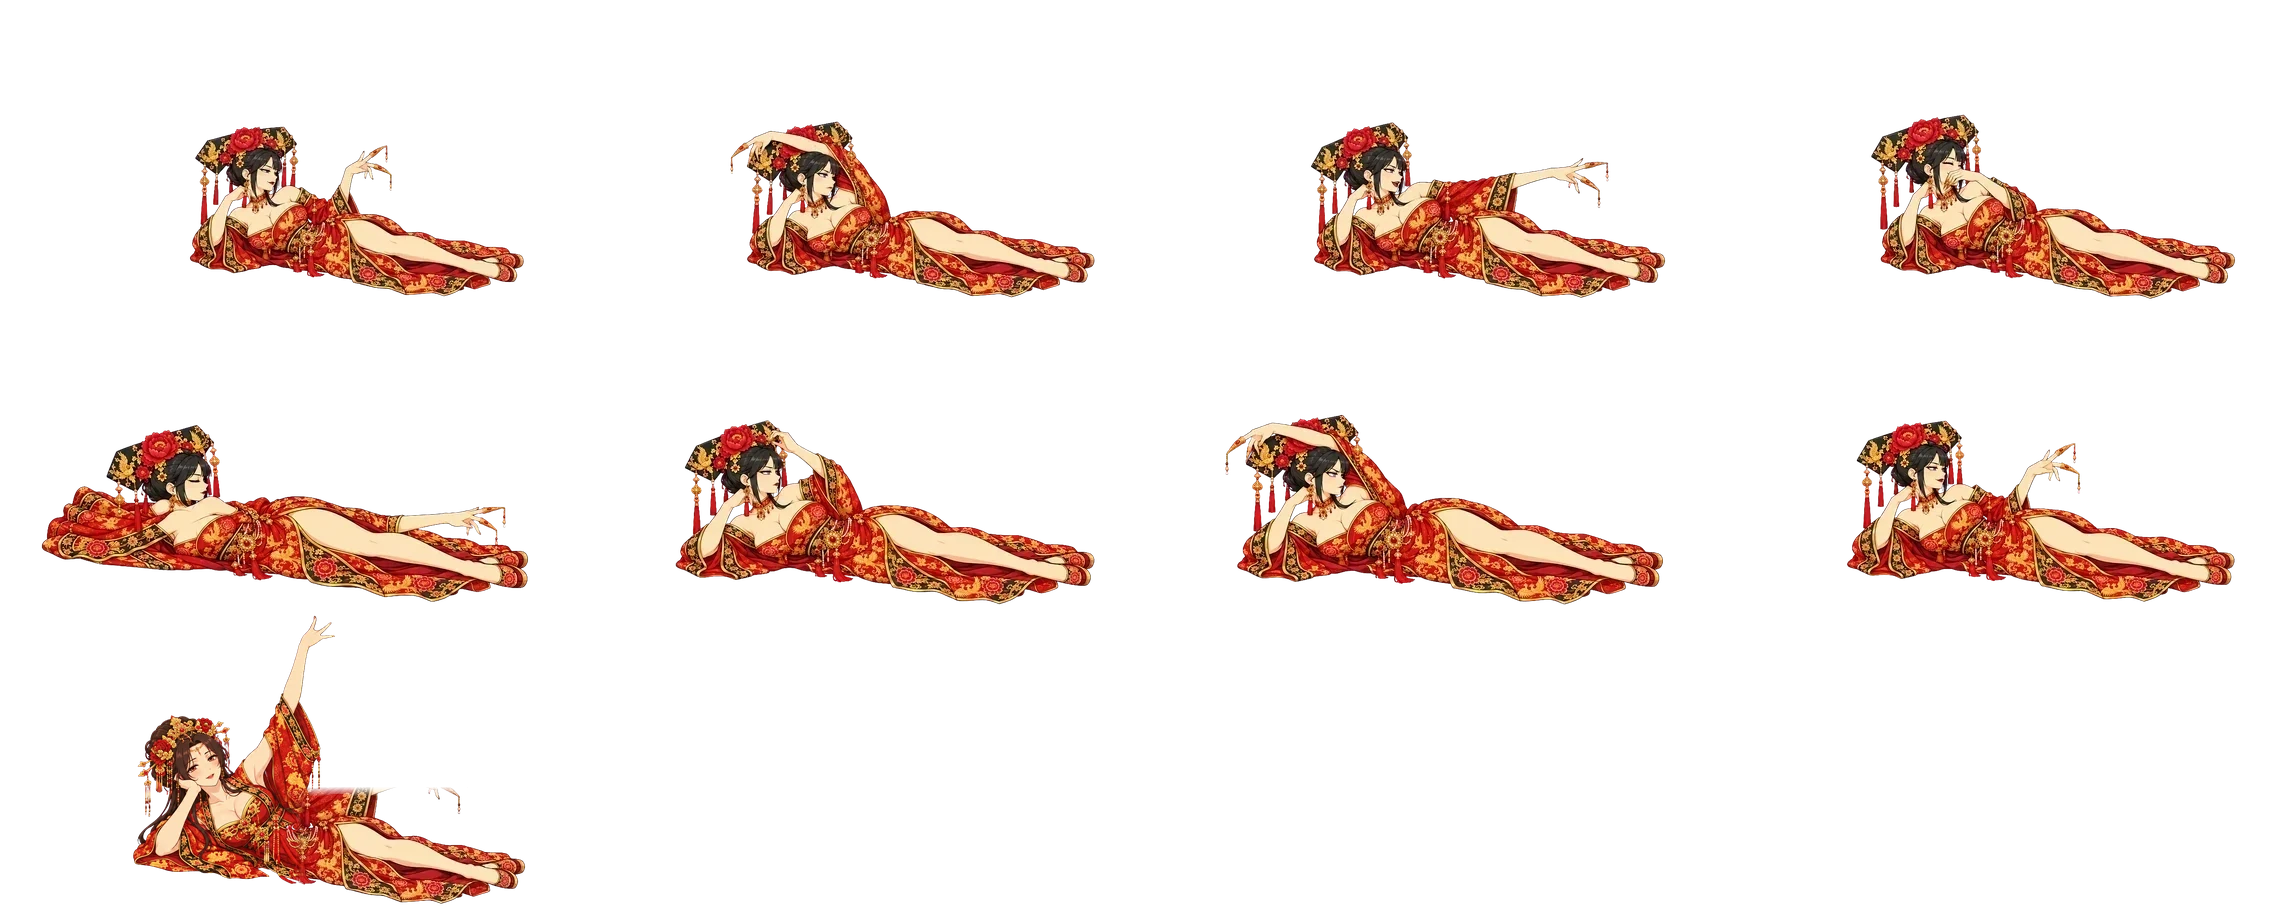
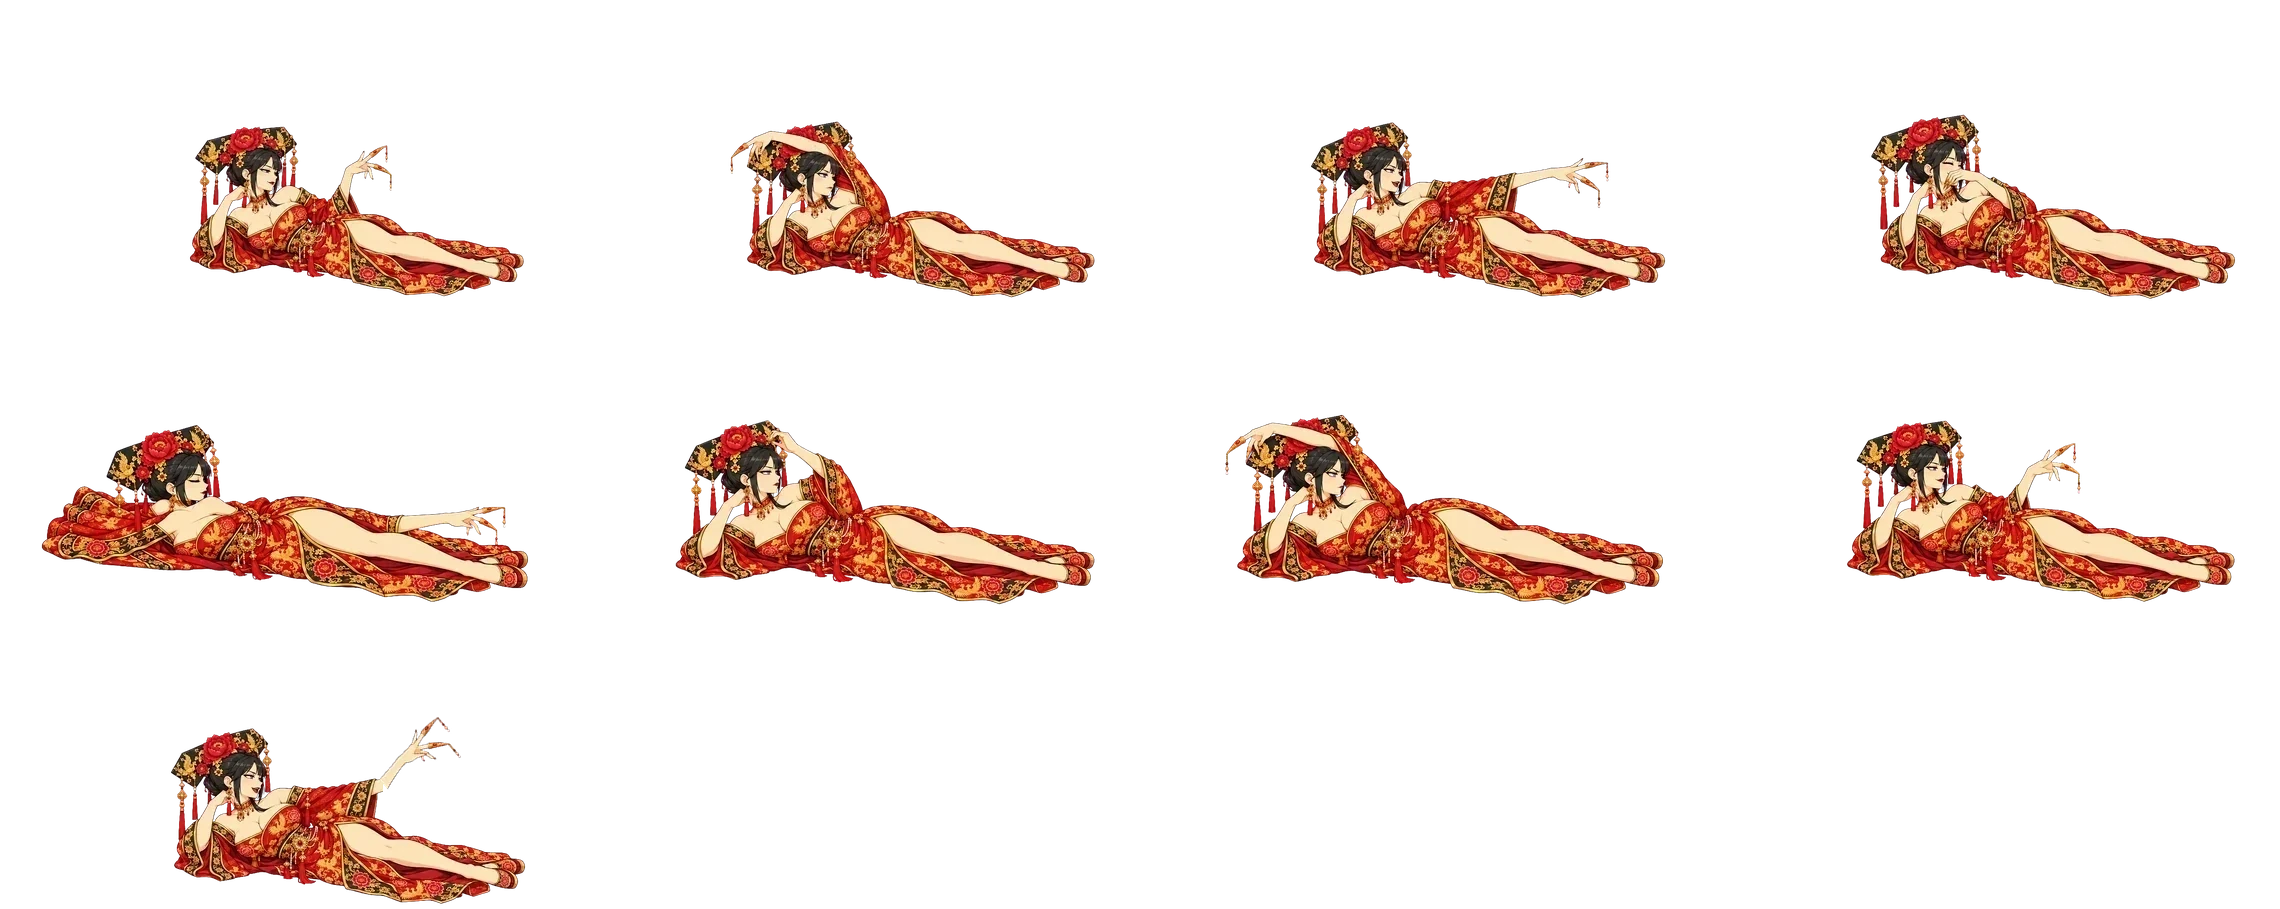
fix: G24 出手帧 release 切件重做（throw 袖口外小臂连手上扬 40°；原局部重绘帧换了个人、袖子被框边切断、旧手飘在框外）；G5 release 贴回框左扩到格边（袖子被框边切掉发虚），addframes 删掉已被 headidle2 取代的 idle2 条目、帧序跟着重排

Changed region(s): [[0.0623, 0.6777, 0.218, 0.9857]]

diff --git a/chashouji/web/trio_bestie.js b/chashouji/web/trio_bestie.js
@@ -154,8 +154,8 @@ const TRIO_BESTIE = {
       flex: { idle: [[488, 235, 529, 302, 'l', 7, 0.8]] },
       /* 金护甲：bestie/tools/prop_nailguard.py 程序画的（她手指上的护甲跟手指叠着，抠不出来） */
       atk: { kind: 'throw', item: 'nailguard', prop: 'assets/world/trio_g24_nailguard.webp', scale: 0.45,
-             seq: [['wind', 0.26], ['release', 0.06, 'fire'], ['throw', 0.12], ['follow', 0.26]], dir: { release: 60 },   // 精闺1：release 出手瞬间（手臂甩到最前上方、手在最远点，自检 4.4 所需角度）→ 原 throw 帧接着当跟随；dir = 肩 → 手（图集上量）
-             hold: { wind: [167, 144], throw: [461, 169], release: [428, 20] },
+             seq: [['wind', 0.26], ['release', 0.06, 'fire'], ['throw', 0.12], ['follow', 0.26]], dir: { release: 47 },   // release = throw 袖口以外小臂连手往上扬 40°（切件，bestie/G24_huafei/armrelease.py；原局部重绘帧头画小、袖子被框边切断、旧手飘在框外）→ 原 throw 帧接着当跟随；dir = 袖口 → 手
+             hold: { wind: [167, 144], throw: [461, 169], release: [436.7, 120.3] },
              T: 0.5, arc: 0.2, spin: 12, stretch: 0, gap: [1.0, 1.4], onHit: 'bounce' },
     },
     G25: {      // 大针筒护士：踩着输液架轮座从左下角滑进来、跳下来半跪扶着输液架，甩一支巨型针筒飞镖，扎在他头上
@@ -303,7 +303,7 @@ const TRIO_BESTIE = {
 
     G5: {       // 客栈老板娘（佟湘玉式）：腰侧挂着大算盘、叉着腰扭着走进来，惊呼"额滴神"；摘下算盘举过头顶，一把 3D 算盘甩出去砸他
       face: +1,
-      sheet: { src: 'assets/trio/G5_tong.webp', cell: [399, 464], cols: 4, names: ['idle', 'wind', 'throw', 'follow', 'walk1', 'walk2', 'walk3', 'walk4', 'release', 'through', 'idle2'] },
+      sheet: { src: 'assets/trio/G5_tong.webp', cell: [399, 464], cols: 4, names: ['idle', 'wind', 'throw', 'follow', 'walk1', 'walk2', 'walk3', 'walk4', 'idle2', 'release', 'through'] },
       /* 锚点 = 前脚（右脚）鞋底：出手四帧按这只鞋配准（残差 0.23 px）。站姿高约 350 px；站位按 shots/trio_std/建议站位_最终.md */
       anchor: [230.4, 458.3], at: [150, 980, 0.84], pivot: [230, 458], leanK: 0,
       depth: 0.8, recipe: 'debris',

diff --git a/chashouji/v14/trio/bestie/G24_huafei/armrelease.py b/chashouji/v14/trio/bestie/G24_huafei/armrelease.py
@@ -1,0 +1,21 @@
+"""G24 出手帧 release（2026-10-02 总控，复查 G30 同类问题时发现）：throw 帧袖口以外的小臂和戴护甲的手绕袖口往上扬 40°（出手瞬间手甩到最前上方）。
+原 release 是 addframes 局部重绘、生图上半身两框贴回 throw：生图的头和发饰画小了一圈、脸也不是同一张，框边把袖子切断渐隐，throw 伸出去的那只手还剩一截飘在框外。
+生图比例对不上，所以不用（addframes.json 里的 release 条目已删）。袖子压在身上切不下来，只切袖口以外：x ≥ 383 的 150~192 行（小臂）+ x ≥ 396 的 150~215 行（手和垂下的护甲坠子），
+都悬在透明底上，抠出来绕袖口点转、贴回 —— 袖子和身子逐像素同 throw。
+直接替换图集里 release 那一格；重新 build 图集之后再跑一次。在 chashouji 下：python3 v14/trio/bestie/G24_huafei/armrelease.py"""
+import json, math, os
+import numpy as np
+from PIL import Image
+WEB = os.path.join(os.path.dirname(os.path.abspath(__file__)), '../../../../web/assets/trio')
+PIV, ROT = (382, 178), 40     # 袖口点（格内）、转多少度（正 = 逆时针 = 往上扬）
+m = json.load(open(os.path.join(WEB, 'G24_huafei.json'))); a = Image.open(os.path.join(WEB, 'G24_huafei.webp')).convert('RGBA')
+cw, ch = m['cell']; C = m['cols']; assert m['cell'] == [570, 303], '切口和袖口点量在 cell 570×303 的图集上'
+cell = lambda n: (m['frames'].index(n) % C * cw, m['frames'].index(n) // C * ch)
+x, y = cell('throw'); A = np.array(a.crop((x, y, x + cw, y + ch))); yy, xx = np.mgrid[:ch, :cw]
+sel = ((xx >= 383) & (yy >= 150) & (yy < 192)) | ((xx >= 396) & (yy >= 150) & (yy < 215))
+arm = A.copy(); arm[~sel] = 0; rest = A.copy(); rest[sel] = 0
+rel = Image.fromarray(rest); rel.alpha_composite(Image.fromarray(arm).rotate(ROT, resample=Image.BICUBIC, center=PIV))
+x, y = cell('release'); a.paste(rel, (x, y))
+a.save(os.path.join(WEB, 'G24_huafei.webp'), 'WEBP', quality=90, method=6)
+t = math.radians(ROT); dx, dy = 461 - PIV[0], 169 - PIV[1]        # throw 的出手点 hold [461, 169] 跟着转
+print('release 出手点', [round(PIV[0] + dx * math.cos(t) + dy * math.sin(t), 1), round(PIV[1] - dx * math.sin(t) + dy * math.cos(t), 1)])
